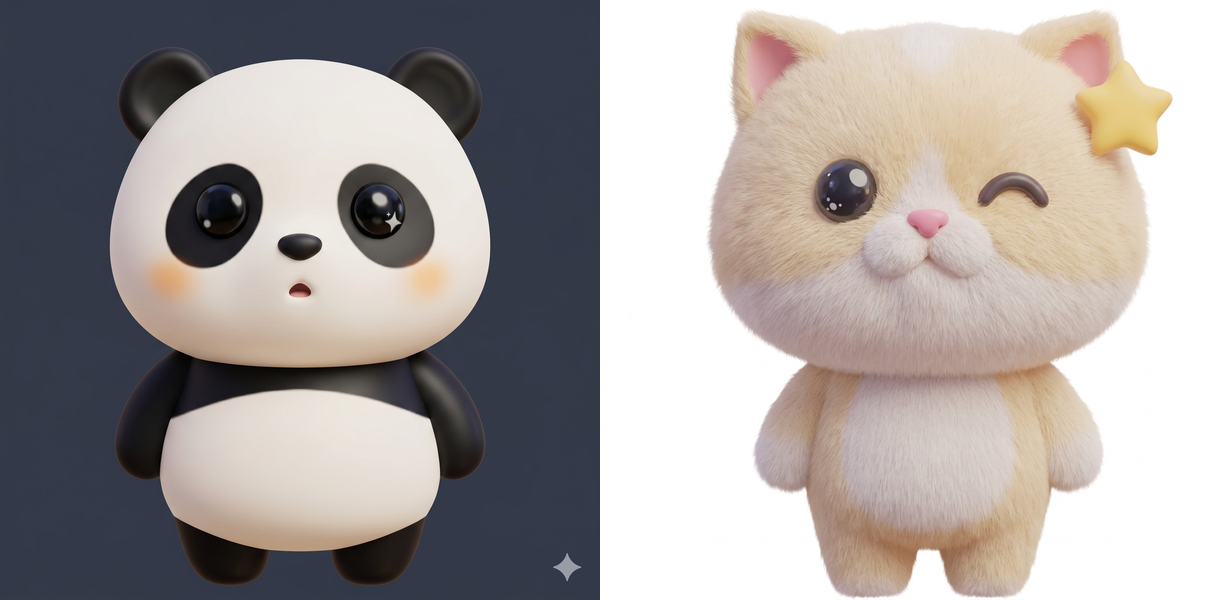
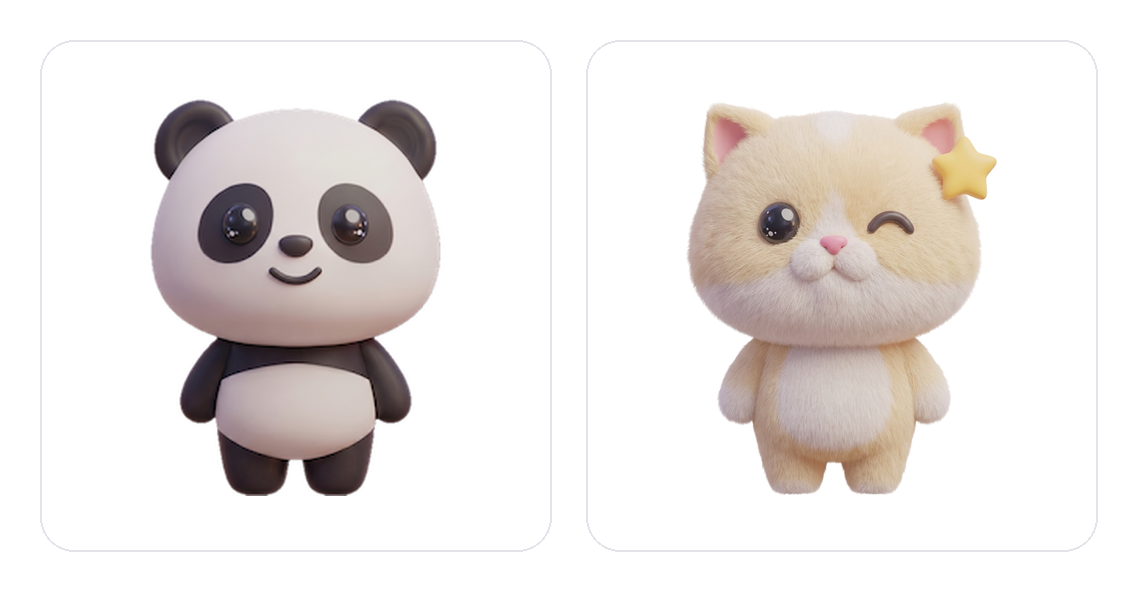
refactor(token-guardians): 2편 캐릭터 글 소제목·강조 다듬고 핵심 프롬프트 루프 부각
- 소제목 2개를 겪은 상황이 드러나게 수정(판다처럼 안 만들어짐 / 조금 수정하려다 아예 다시 그림)
- 긴 프롬프트 코드블록의 소프트랩 줄바꿈을 불릿 단위 한 줄로 연결
- "영어로 뭔지 다 몰라도 잘 나오니 만족" 맥락을 프롬프트 앞뒤로 추가
- 핵심 문장 3개를 블록쿼트로 빼고, 제미나이에 직접 수정 요청 안 하고 클로드로 프롬프트 재작성 후 재검증하는 루프를 핵심으로 부각
- 두 프롬프트 종류 설명 문장과 SVG 시도 문장 삭제

diff --git a/content/posts/app/token-guardians/how-i-made-the-characters.md b/content/posts/app/token-guardians/how-i-made-the-characters.md
@@ -14,7 +14,11 @@ tags: ["토큰 지키미", "제작기", "Gemini", "AI 이미지", "프롬프트"
 
 문제는 내가 서버 개발자라는 거였다. 그림을 못 그린다. 그래서 제미나이로 캐릭터를 만들었는데, 막상 해보니 진짜 어려웠던 건 그림 실력이 아니었다. 일관성이었다.
 
-## 일관성이 깨졌다
+그래서 이 글은 잘 만든 자랑보다, 캐릭터를 만들며 겪은 실패담에 가깝다.
+
+## 판다처럼 만들고 싶은데 비슷하게 잘 안 만들어졌다
+
+지금 와서 보면 판다는 운이 좋았다. 별생각 없이 만들었는데 한 번에 꽤 이쁘게 나왔다. 문제는 이 판다를 닮은 캐릭터를 여럿 만들려고 하면서 시작됐다.
 
 캐릭터끼리 결이 달랐다. 캐릭터를 추가할 때마다 나는 판다를 기준으로 삼았다. 그림을 못 그리니, 매번 자연어로 "얘처럼 만들어줘, 판다랑 톤이나 느낌은 똑같이"라고 부탁하는 식이었다. 고양이를 만들 때도 이렇게 적었다.
 
@@ -27,69 +31,68 @@ tags: ["토큰 지키미", "제작기", "Gemini", "AI 이미지", "프롬프트"
 
 ![왼쪽이 기준으로 삼은 매끈한 판다, 오른쪽이 "판다처럼 해달라"고 했는데도 털이 보이고 광이 돈 고양이](/images/token-guardians/panda-vs-cat.png)
 
-그래서 다시 잡았다.
+이 당시만 해도 클로드한테 프롬프트를 통째로 맡기던 때는 아니었다. 자연어로 "이렇게 해줘"를 반복하며 여러 시행착오를 겪었다.
 
-> 뭔가 광이 나는거 같은데
-> 판다처럼 적당히 무광+유광인 느낌으로 해주고
+이 한 마리가 나오기까지, 나의 실패한 습작들은 다음과 같다. 각 그림 밑에 그때 친 스크립트를 같이 뒀다.
 
-이렇게 한 번 더 적고 나서야 고양이가 판다 옆에 둬도 어색하지 않았다. 일관성을 신경 안 쓴 게 아니다. "판다처럼"이라고 매번 적었는데도, 한 번에 같은 결로 나오는 법이 없었다.
+![색이 파랗게, 온몸이 털로, 다시 판다로, 광이 번들거리고, 색이 너무 어둡게 나온 습작들. 각 그림 밑에 그때 친 스크립트를 함께 넣었다](/images/token-guardians/cat-failures.png)
 
-이 당시만 해도 클로드한테 프롬프트를 짜게 하던 때가 아니었다. 여러 시행착오를 겪으며 두 번째 캐릭터인 고양이를 겨우 만들었다.
+정확히 기억은 안 나지만, 나중엔 클로드한테 스크립트를 고치게 하고 제미나이로 결과를 뽑는 걸 반복해서 확인한 끝에, 겨우겨우 두 번째 캐릭터인 고양이를 만들었다.
 
-## 작은 수정이 안 됐다
+![털 없이 매끈하고 무광과 유광이 적당히 섞여서 판다 옆에 둬도 결이 맞은 최종 고양이](/images/token-guardians/cat-final.png)
 
-제일 답답했던 건 조금만 고치고 싶을 때였다. 어디 하나 손을 대면 결과가 통째로 바뀌어서 돌아왔다.
+## 조금만 수정하고 싶었는데 아예 다시 그렸다
 
-### 손대면 화풍이 통째로 바뀌었다
+제일 답답했던 건 조금만 고치고 싶을 때였다. 어디 하나 손을 대면 결과가 통째로 바뀌어서 돌아왔다. 사실 앞에서 본 고양이도 같은 경우였다. "적당히 무광+유광으로" 같은 작은 수정을 넣을 때마다, 그 부분만 바뀌는 게 아니라 매번 다른 고양이가 돌아왔다.
 
-강아지가 그랬다. 처음엔 꽤 괜찮게 나왔다. 판다, 고양이와 같은 3D 느낌으로 갈색 강아지가 나왔다. 그런데 괜찮으면서도 뭔가 아쉬워서, 조금만 다르게 해보고 싶어 이렇게 쳤다.
+강아지에서는 그게 더 대놓고 드러났다. 처음엔 꽤 괜찮게 나왔다. 판다, 고양이와 같은 3D 느낌으로 갈색 강아지가 나왔다. 나쁘지 않은데 뭔가 조금 아쉬웠다. 그래서 이 결과가 마음에 든 상태에서, 이어서 바로 작은 요청 하나만 더 얹었다.
 
 > 뭔가 괜찮은거 같으면서도 아쉬워
 > 다른 느낌으로 바꿔줄래?
 
 ![왼쪽이 원래 나온 3D 강아지(before), 오른쪽이 "다른 느낌으로" 한마디에 수채화로 바뀐 강아지(after)](/images/token-guardians/dog-before-after.png)
 
-톤만 살짝 손보려던 거였는데 화풍이 통째로 수채화로 바뀌어서 돌아왔다. 아예 다른 그림이 된 거다.
+톤만 살짝 손보려던 거였는데, 돌아온 건 화풍이 통째로 수채화로 바뀐 강아지였다. 아예 다른 그림이 된 거다.
 
-### 한 표정만 고치랬는데 다른 것도 바뀌었다
+고양이든 강아지든 늘 이런 식이었다. 어디 한 군데만 고쳐달라고 하면, 그 부분만 바뀌는 게 아니라 그림 전체가 다른 그림으로 돌아왔다. 처음엔 왜 이러는지 몰랐다. "왜 안 되지?" 하면서 프롬프트를 이리저리 바꿔봤지만, 특정 부분만 고치는 건 계속 안 됐다.
 
-표정 작업도 똑같았다. 표정 하나만 고쳐달라고 하면 멀쩡하던 다른 표정까지 같이 바뀌어 있었다. 그래서 매번 "기존의 sleep이랑 dead는 안 건드렸으면 좋겠어", "나머지는 건들지 말고 아래 것만 수정해줘" 같은 말을 붙여야 했다.
+나중에 알게 된 원리는 이랬다. 이미지 생성 모델은 기존 그림에서 그 부분만 덧칠해 돌려주는 게 아니다. "여기만 바꿔줘"라고 해도, 모델은 이전 그림과 내 말을 조건으로 삼아 그림을 매번 처음부터 새로 그린다. 게다가 그림의 각 부분이 서로 얽혀 있어서, 한 군데를 향한 지시가 엉뚱한 데까지 번진다. 대화가 길어져 맥락이 쌓일수록 캐릭터 생김새나 화풍이 조금씩 더 흔들렸다.
 
-### 자를 때 테두리가 계단처럼 깨졌다
-
-이미지를 잘라 쓰는 단계에서는 픽셀이 깨지기도 했다. 캐릭터 한 장을 8개로 잘라 배경을 지우는데, 다른 캐릭터는 멀쩡한데 펭귄만 테두리가 계단처럼 깨졌다. 펭귄이 채도가 낮은 회색에 어두운 외곽선까지 있어서, 잘라내는 과정에서 그 경계가 도드라졌던 거다. 이렇게 깨지면 캐릭터를 다시 뽑기도 했다.
-
-### 끝까지 잘 안 되는 것도 있었다
-
-강아지처럼 주둥이가 긴 캐릭터는 잘 못 나온다기보다, 내 캐릭터들 특유의 느낌이랑 잘 안 맞았다. 그리고 처음엔 벡터 SVG로 만들려고 했는데, 제미나이가 그건 제대로 못 뱉어서 래스터 이미지로 방향을 틀었다.
+그래서 방법을 바꿨다. 고치고 싶은 걸 클로드한테 넘겨서 프롬프트로 다시 정리하게 시키고, 그걸 새 세션에서 처음부터 보냈다. 쌓인 대화 없이 깨끗한 상태에서 잘 정리된 프롬프트 하나로 생성하니, 이전 그림에 수정 요청을 얹을 때보다 훨씬 원하는 대로 나왔다.
 
 ## 결국 알게 된 건 하나였다
 
 이 짓을 약 280번 반복했다. 그중 110번쯤은 "아니 이거 말고", "다시", "왜 이렇게 나와" 같은 수정 요청이었다. 그렇게 부딪히다 결국 하나를 알게 됐다.
 
-제미나이한테는 영어로, 그리고 아주 명시적으로, 원하는 걸 일일이 다 적어줘야 제대로 만들어준다는 거다. "귀여운 햄스터 표정 8개" 정도로 두루뭉술하게 던지면 매번 다른 게 나온다. 털색, 눈 모양, 코, 몸 비율, 렌더 스타일, 8개를 어떻게 배치할지까지 하나하나 박아야 한다.
+> 제미나이한테는 영어로, 그리고 아주 명시적으로, 원하는 걸 일일이 다 적어줘야 제대로 만들어준다는 거다.
 
-그 긴 프롬프트를 내가 직접 영어로 쓰진 않았다. 클로드한테 "제미나이에 줄 프롬프트를 짜줘"라고 시켰다. 그러면 두 종류의 프롬프트가 나왔다. 하나는 캐릭터 한 마리를 만드는 프롬프트, 다른 하나는 그 캐릭터의 표정 여덟 개를 한 장에 만드는 프롬프트다. 길어서 접어둔다. 펼쳐 보면 거의 잔소리 수준이라는 걸 알 수 있다.
+"귀여운 햄스터 표정 8개" 정도로 두루뭉술하게 던지면 매번 다른 게 나온다. 털색, 눈 모양, 코, 몸 비율, 렌더 스타일, 8개를 어떻게 배치할지까지 하나하나 박아야 한다.
 
-<details>
-<summary>펼쳐보기: 캐릭터 한 마리 만드는 프롬프트 (병아리 예시)</summary>
+그 긴 프롬프트를 내가 직접 영어로 쓰진 않았다.
+
+> 이걸 클로드한테 "제미나이에 줄 프롬프트를 짜줘"라고 시켰다.
+
+그렇게 받은 프롬프트를 제미나이에 넣고, 클로드가 잘 짰겠거니 믿으면서도 한편으론 이게 맞나 의심하면서 나온 결과물을 봤다. 그런데 여기서 진짜 중요한 건 따로 있다.
+
+> 결과가 아쉬워도 나는 제미나이한테 직접 "이거 고쳐줘"라고 하지 않았다. 어디가 어떻게 아쉬운지는 내가 눈으로 보고 정했다. 대신 그 수정은 클로드한테 넘겨서 프롬프트를 새로 짜게 했고, 새로 받은 프롬프트를 다시 제미나이에 넣어 결과를 확인했다.
+
+내가 보고, 클로드가 프롬프트를 고치고, 제미나이로 검증하는 이 반복이 캐릭터를 일관되게 만든 방법의 전부였다.
+
+그렇게 클로드가 짜준 프롬프트는 거의 잔소리 수준인데, 그대로 옮기면 아래와 같다.
+
+솔직히 고백하면, 나는 이 프롬프트에 영어로 뭐가 적혀 있는지 정확히 다 알지는 못한다. 클로드가 짜준 걸 그대로 제미나이에 붙여넣었을 뿐이다.
+
+**캐릭터 한 마리 만드는 프롬프트 (햄스터 예시)**
 
 ```text
-Create a single cute 3D vinyl-toy figure of a chibi baby chick (duckling), collectible
-style, smooth soft matte clay finish (no rough texture). Adorable and slightly derpy ("하찮은").
+Create a single cute 3D vinyl-toy figure of a chibi baby hamster, collectible style, smooth soft matte clay finish (no rough texture). Adorable and slightly derpy ("하찮은").
 
 PROPORTIONS (match exactly, head-dominant 2-head-tall chibi):
 - The whole figure is only about TWO heads tall.
-- Build the figure as TWO clearly SEPARATE rounded masses stacked vertically:
-  a big round HEAD on top and a smaller rounded BODY below, with a visible
-  gentle pinch / indentation (a short neck) between them, like the reference
-  panda, cat and hamster. Do NOT blend head and body into one continuous egg.
-- The HEAD is the dominant ball: about HALF the total height and clearly WIDER
-  and bigger than the body. Top-heavy and cute.
-- The BODY is a distinctly smaller rounded belly sitting under the head,
-  noticeably narrower than the head. NOT taller than the head, no long torso.
-- Wings are tiny short stubs at the sides of the body; legs are very short stubs
-  with small rounded feet at the very bottom.
+- Build the figure as TWO clearly SEPARATE rounded masses stacked vertically: a big round HEAD on top and a smaller rounded BODY below, with a visible gentle pinch / indentation (a short neck) between them, like the reference panda and cat. Do NOT blend head and body into one continuous blob.
+- The HEAD is the dominant ball: about HALF the total height and clearly WIDER and bigger than the body. Top-heavy and cute.
+- The BODY is a distinctly smaller rounded belly sitting under the head, noticeably narrower than the head. NOT taller than the head, no long torso.
+- Tiny short arm stubs at the sides; very short leg stubs with small rounded feet at the very bottom.
 
 OUTPUT QUALITY (avoid banding / pixel artifacts):
 - Clean high-resolution PNG, no JPEG compression.
@@ -97,50 +100,43 @@ OUTPUT QUALITY (avoid banding / pixel artifacts):
 - Crisp clean color regions with subtle but defined shading; no posterization.
 
 SILHOUETTE CHECK:
-- From the outline alone you should clearly read a big head-ball and a separate
-  smaller body-ball with a soft waist between them, exactly like the existing
-  panda/cat/hamster figures.
+- From the outline alone you should clearly read a big head-ball and a separate smaller body-ball with a soft waist between them, exactly like the existing panda/cat figures.
 
 FACE & EXPRESSION:
 - Flat round chibi face. Innocent, slightly smug-content stare.
-- MEDIUM round glossy solid-black eyes, one bright catchlight + tiny sparkle.
-  NO white sclera.
-- A small soft rounded orange beak, slightly open in a derpy way.
-- A tiny tuft of fluff sticking up on top of the head.
+- MEDIUM round glossy solid-black eyes, one bright catchlight + tiny sparkle. NO white sclera.
+- A tiny pink heart-shaped nose, small soft content smile.
+- Two small rounded ears sitting on top of the head.
 
 HEAD & BODY MARKINGS:
-- Even soft butter-yellow fluff over the whole head and body.
-- Cheeks and belly a touch lighter warm cream-yellow for soft depth.
-- Beak and feet warm soft orange.
-- All yellow/cream boundaries SOFT-EDGED but DEFINED, narrow transition only,
-  no long fade, no hard grooves or dark seams.
+- Even soft pastel-orange fur over the head and back.
+- Cheeks, muzzle and belly a lighter warm cream for soft depth.
+- All orange/cream boundaries SOFT-EDGED but DEFINED, narrow transition only, no long fade, no hard grooves or dark seams.
 
 BODY & POSE:
 - Big round head-ball on top, smaller rounded body-ball below with a soft waist.
-- Tiny stub wings at the sides, short stub legs with small rounded orange feet.
-- NO tail. Standing upright facing forward, waddly and clumsy, top-heavy.
+- Tiny stub arms at the sides, short stub legs with small rounded feet.
+- NO tail. Standing upright facing forward, chubby and clumsy, top-heavy.
 
 COLOR (raised contrast to prevent banding):
-- Yellow areas: clean warm butter-yellow, saturated enough to read on a dark bg.
-- Beak/feet: clean soft orange.
+- Orange areas: clean warm pastel-orange, saturated enough to read on a dark bg.
+- Cream areas: soft warm cream.
 - Eyes: solid black with bright glossy catchlights.
-- Yellow-vs-orange contrast clear and crisp; no muddy gray midtones.
+- Orange-vs-cream contrast clear and crisp; no muddy gray midtones.
 
 LIGHTING & FINISH:
 - Soft front studio lighting with gentle, well-defined shading.
-- Smooth matte vinyl finish, faint highlight on the cheeks/belly and faint
-  specular sheen on the fluff to add micro-detail.
+- Smooth matte vinyl finish, faint highlight on the cheeks/belly and faint specular sheen to add micro-detail.
 
 COMPOSITION:
-- SQUARE 1:1. One chick only, centered, filling most of the frame.
+- SQUARE 1:1. One hamster only, centered, filling most of the frame.
 - Plain solid dark slate background (slightly lifted from pure black), no gradient.
 - No accessories or props, no text, no logo, no ground shadow.
 ```
 
-</details>
+![기준으로 삼은 햄스터 한 마리. 이 정도로 다 박아야 원하는 대로 나왔다](/images/token-guardians/hamster-single.png)
 
-<details>
-<summary>펼쳐보기: 표정 여덟 개 시트 만드는 프롬프트 (햄스터 예시)</summary>
+**표정 여덟 개 시트 만드는 프롬프트 (햄스터 예시)**
 
 ```text
 Using the hamster character in the attached image as the exact reference, create a single expression sheet showing this SAME hamster in 8 different emotional states. Keep the character's identity perfectly consistent across all 8: the same soft pastel-orange and cream fur, the same big round glossy black eyes, the tiny pink heart-shaped nose, the same chubby rounded body proportions, and the same smooth matte 3D clay / soft-vinyl-toy render style with gentle studio lighting.
@@ -160,13 +156,19 @@ The 8 states:
 Maintain identical scale, lighting direction, and art style for every pose so they look like one cohesive sticker/emote set.
 ```
 
-</details>
-
 이렇게 털색, 눈, 코, 비율, 렌더 스타일, 배치까지 일일이 다 박고, 기존 캐릭터를 정확한 레퍼런스로 붙여주니, 표정 여덟 개가 한 장에 일관되게 나왔다.
 
 ![토큰 지키미 캐릭터들의 표정 8종](/images/token-guardians/hamster-expressions.png)
 
+무슨 뜻인지 다 몰라도, 넣으면 원하는 게 나왔다. 나는 그림을 못 그리는 서버 개발자고, 결과만 잘 나오면 그걸로 만족이었다.
+
 뒤에는 이 한 장을 8개로 자르고 정렬하는 작업까지 손으로 안 하고 스킬로 자동화했다. 같은 시트를 넣으면 늘 같은 결과가 나오게 만들었다.
+
+## 끝까지 내 결에 안 맞는 애들도 있었다
+
+주둥이가 튀어나오거나 몸 생김새가 다른 캐릭터는 잘 못 나온다기보다, 내 캐릭터들 특유의 둥글고 매끈한 느낌이랑 잘 안 맞았다. 아기 돼지는 주둥이가 튀어나와서, 공룡은 몸 생김새 자체가 달라서, 아무리 다듬어도 판다 옆에 두면 겉돌았다.
+
+![주둥이가 튀어나온 아기 돼지, 공룡, 용, 일각고래, 고슴도치, 물범. 내 캐릭터들의 둥근 느낌과 안 맞아 접은 습작들](/images/token-guardians/misfit-characters.png)
 
 ## 그래서 가디언즈가 됐다
 
